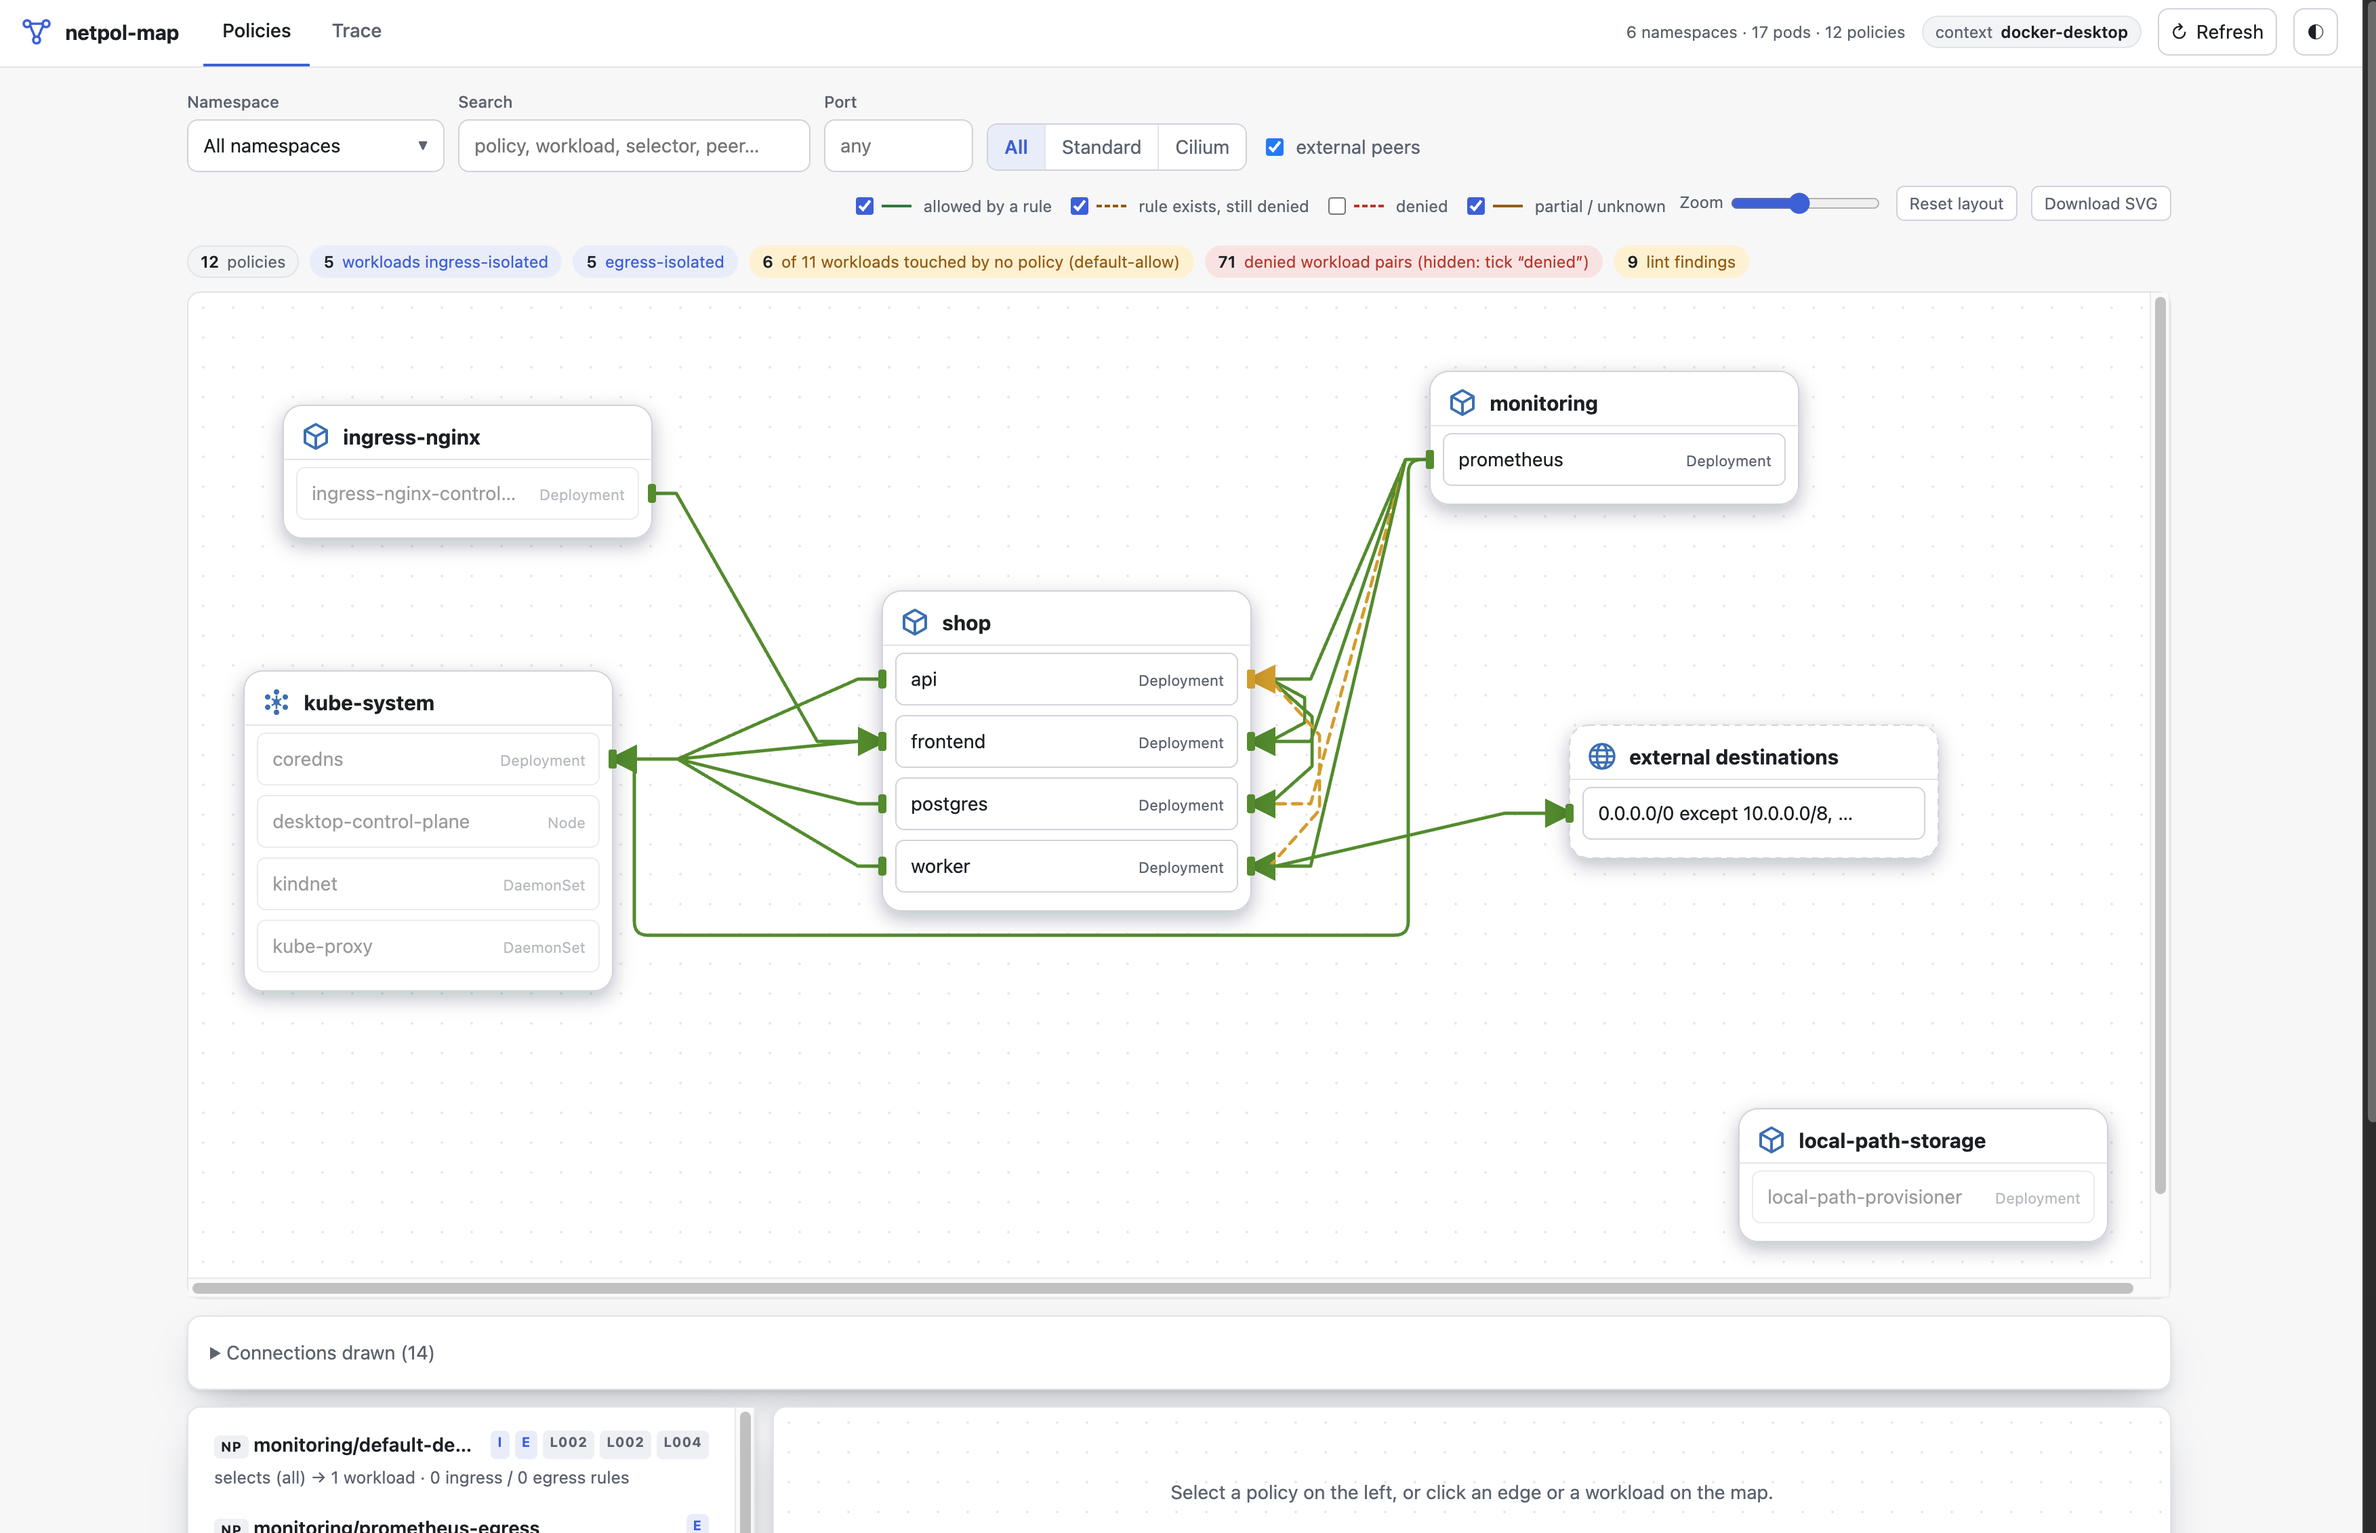
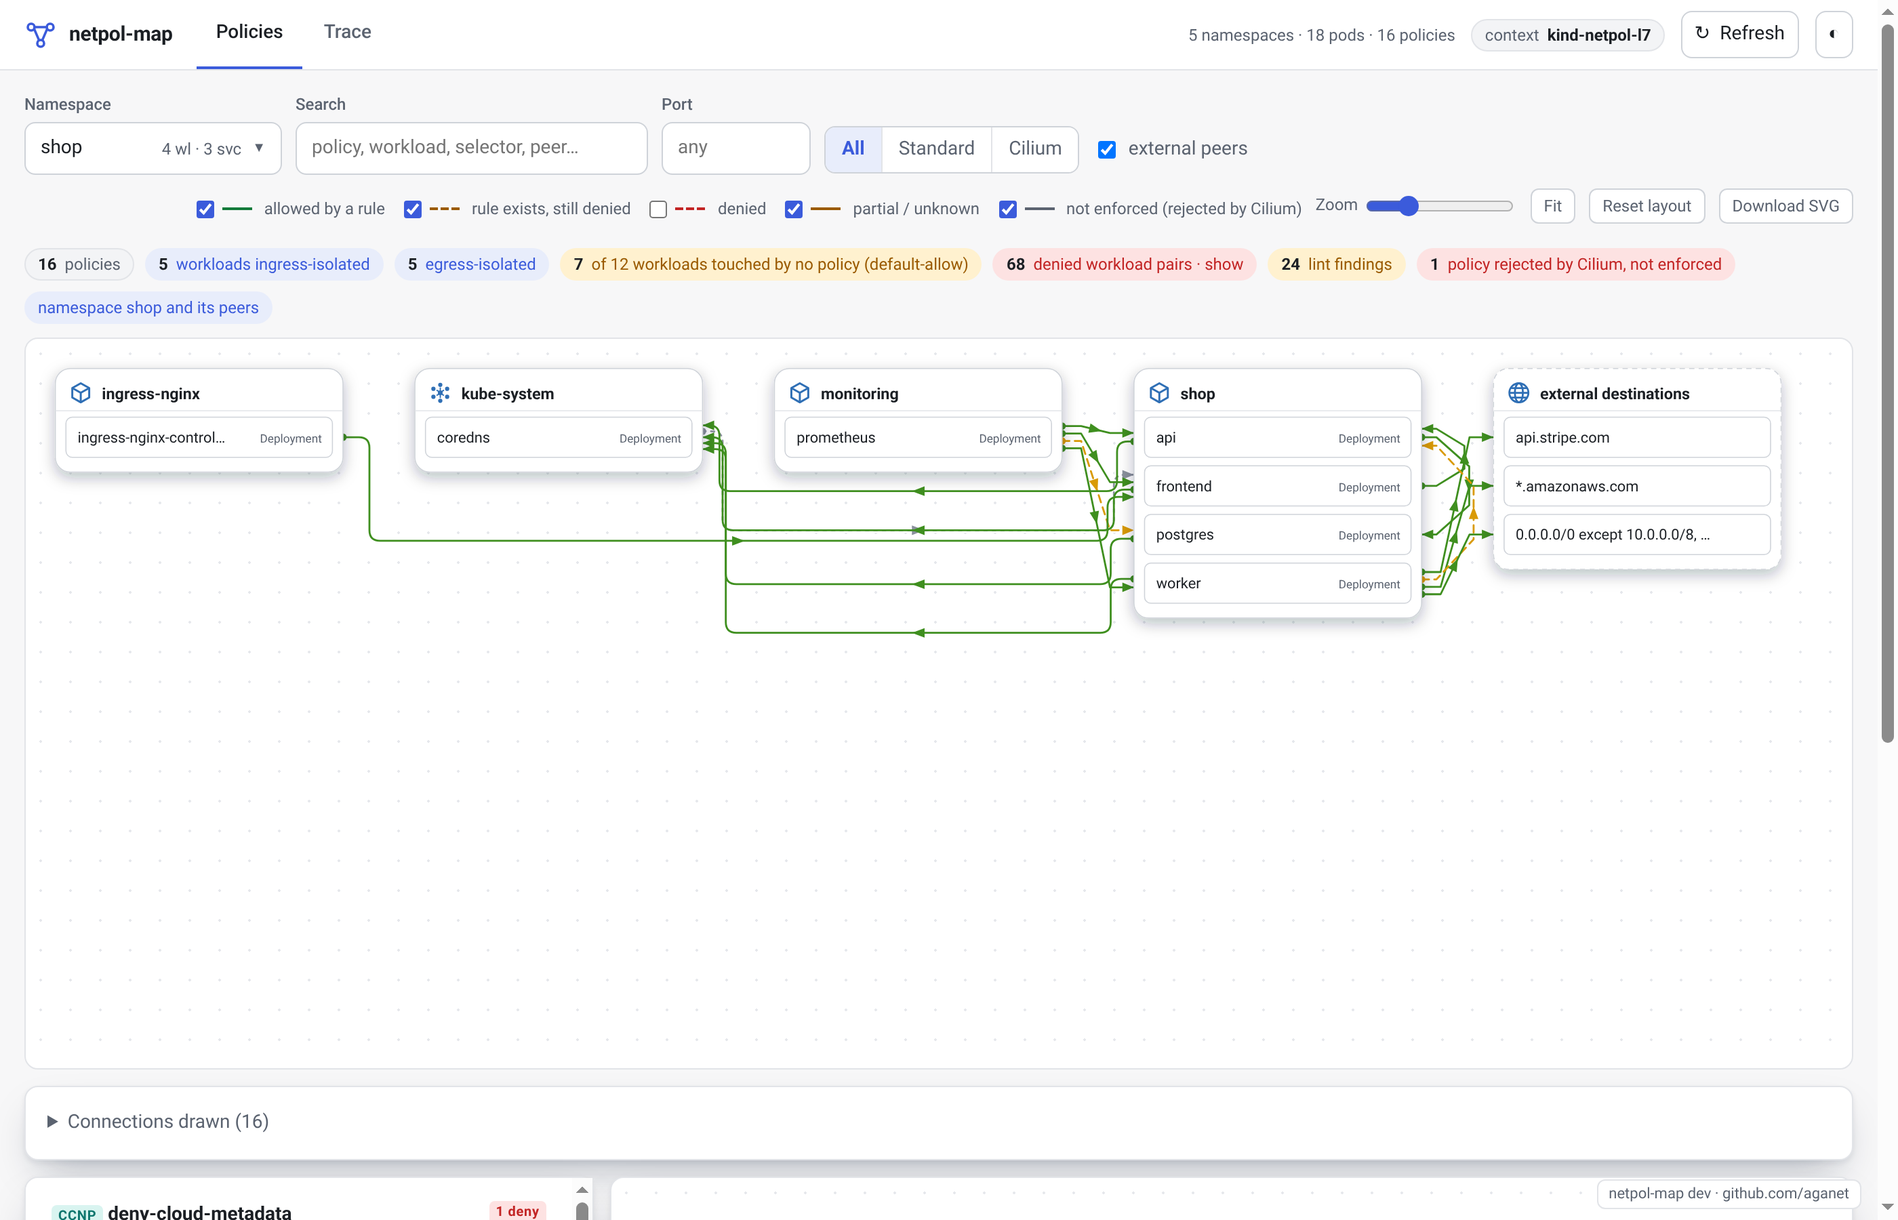
UI: focus, connectors, grouped lint, fit and keyboard; docs and demo updates (#10)
* ui: policy focus on the map, pressed chips, grouped lint, editor-style connectors with mid-line and destination arrows, fit and keyboard shortcuts; fix hidden badge

* docs: new UI screenshots, README for the map focus and connector changes; demo: HTTP L7 policy and a rejected policy in cilium.yaml

diff --git a/README.md b/README.md
@@ -4,6 +4,8 @@
 
 ![Policy detail](docs/policy-detail.png)
 
+![Trace](docs/trace.png)
+
 ![Terminal UI](docs/terminal.png)
 
 `kubectl netpol-map` shows what your Kubernetes NetworkPolicies (standard and Cilium)
@@ -21,7 +23,7 @@ Or a binary from [releases](https://github.com/aganet/kubectl-netpol-map/release
 (the underscore is how kubectl maps `kubectl netpol-map` to a plugin):
 
 ```sh
-V=0.2.2; OS=darwin; ARCH=arm64
+V=0.3.0; OS=darwin; ARCH=arm64
 curl -LO https://github.com/aganet/kubectl-netpol-map/releases/download/v$V/kubectl-netpol-map_${V}_${OS}_${ARCH}.tar.gz
 tar -xzf kubectl-netpol-map_${V}_${OS}_${ARCH}.tar.gz && sudo install -m 0755 kubectl-netpol_map /usr/local/bin/
 ```
@@ -53,7 +55,8 @@ A `path` reference is `ns/pod`, `ns/workload`, `ns/service[:port]`,
 `service.ns.svc[:port]`, `ns:key=value`, or external: `internet`, a host, an IP, a CIDR.
 
 `demo/demo.yaml` is a three-tier app with typical policies; its header lists the
-expected verdict of each command. `demo/cilium.yaml` adds Cilium examples.
+expected verdict of each command. `demo/cilium.yaml` adds Cilium examples: DNS-aware
+egress, a cluster-wide deny, an HTTP L7 rule, and one policy Cilium rejects on purpose.
 
 **Offline**: `--offline` on any command reads manifests instead of a cluster,
 so a Git repo, a Helm chart or a Kustomize build can be reviewed before it is
@@ -90,8 +93,16 @@ External targets check `ipBlock`, Cilium `toEntities`/`toCIDR`/`toFQDNs`.
 ## UIs
 
 **Web** (`ui`): the policy map with namespace, port and edge-type filters,
-draggable groups, SVG export, lint badges; a policy detail in the Cilium-editor
-layout; trace with dropdowns.
+draggable groups, Fit and zoom, SVG export. A connector runs from a dot at the
+source to an arrow at the destination, with a second arrow mid-line, and every
+connector has its own port so parallel lines stay apart. Click or hover a policy
+in the list and the map lights only what it touches; the summary chips (rejected
+by Cilium, lint findings, default-allow workloads, denied pairs) are toggles
+that do the same and open the matching list; `Esc` clears, `/` jumps to the
+search. Lint findings are grouped by code. The policy detail uses the
+Cilium-editor layout; trace has dropdowns.
+
+![Rejected policy highlighted](docs/rejected.png)
 
 **Terminal** (`tui`): namespaces left; policies (`1`), connections (`2`) or
 workloads (`3`) middle; detail below with a "what this policy does" list, the
